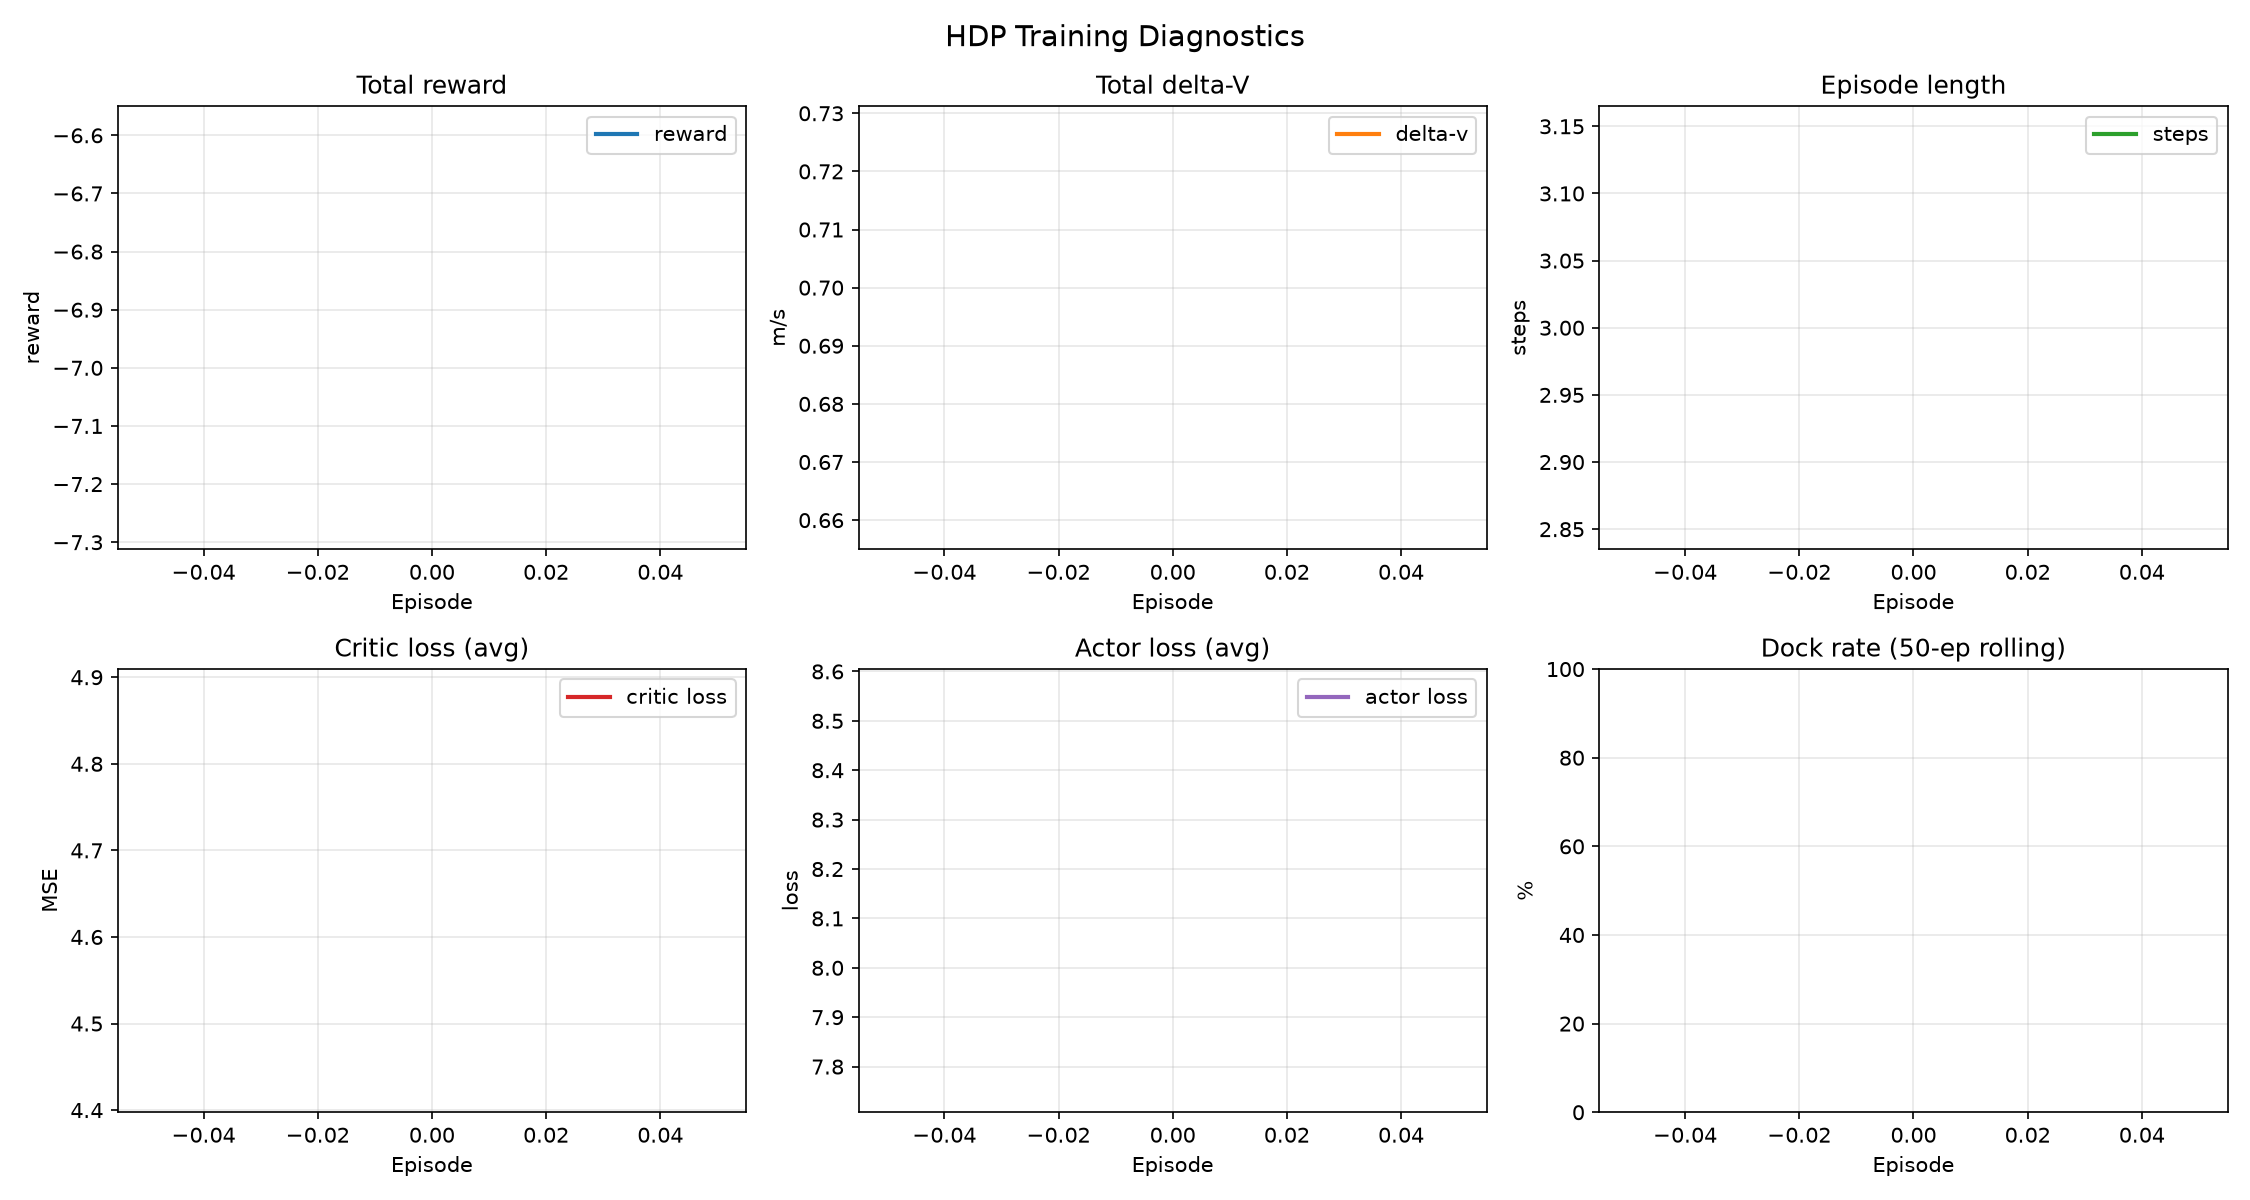
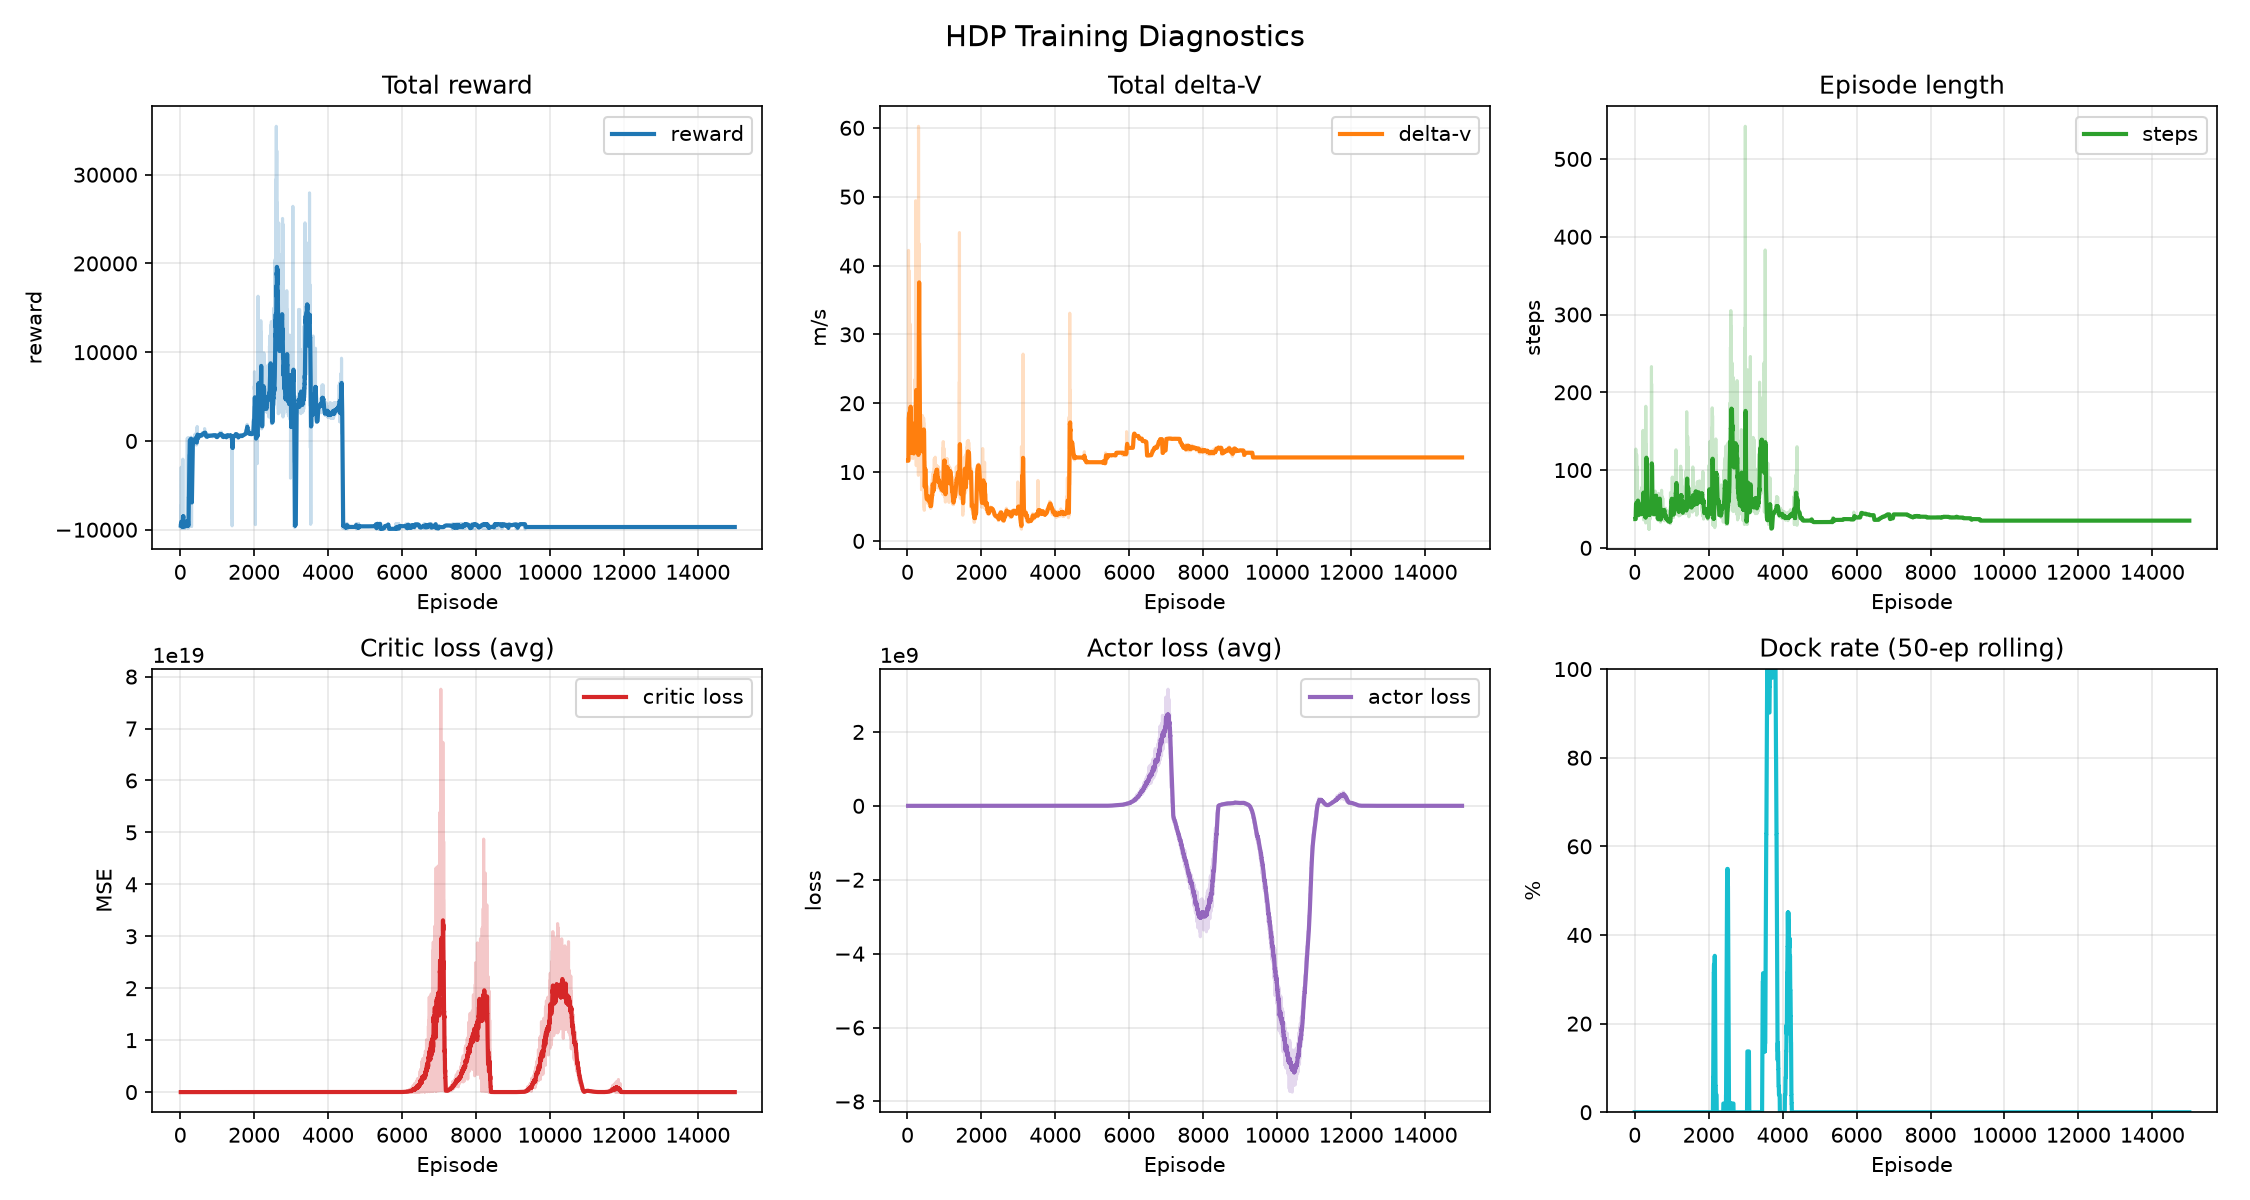
full target, still diverging

diff --git a/libs/constants.py b/libs/constants.py
@@ -23,13 +23,13 @@ ENV_MAX_DIR_CHANGE = 4
 
 # --- Training defaults ---
 GAMMA = 0.97
-NUM_EPISODES = 5000
+NUM_EPISODES = 15000
 MAX_STEPS = int(ENV_TIMEOUT/ENV_DT)
 ACTOR_LR = 1e-5
 CRITIC_LR = 1e-3
 GRAD_CLIP_NORM = 1.0
 LOG_EVERY = 10
-TAU = 0.005  # soft update rate — add to constants.py
+TAU = 0.008  # soft update rate — add to constants.py
 REPLAY_BUFFER_SIZE = 100_000
 BATCH_SIZE = 64
 MIN_BUFFER = 1000  # don't train until buffer has this many samples

diff --git a/libs/env.py b/libs/env.py
@@ -171,6 +171,9 @@ class CWRendezvousEnv(gym.Env):
         else:
             reward_terminal = 0.0
 
+        if pos_error < 5 * self.pos_tolerance:
+            reward_terminal += 0.25 * ENV_BONUS
+
         reward = reward_pos + reward_fuel + reward_terminal
 
         observation = self.state.copy()